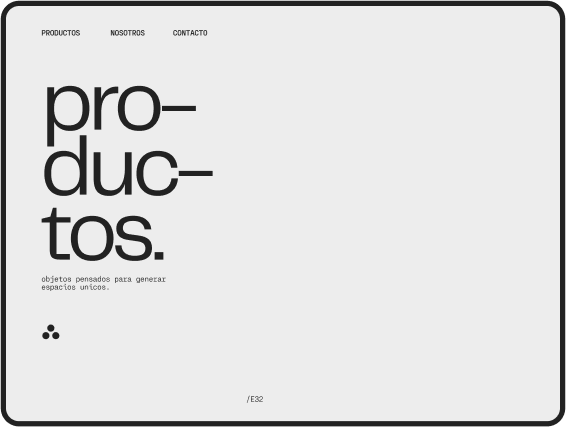
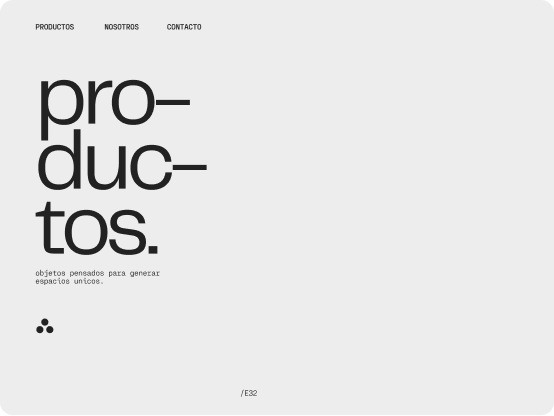
animaipad animation

Changed region(s): [[0.0, 0.0, 1.0, 1.0], [0.0614, 0.1875, 0.3682, 0.6875], [0.0614, 0.75, 0.1227, 0.8125]]

diff --git a/src/components/Animations/Estudio/AnimaIpad2.jsx b/src/components/Animations/Estudio/AnimaIpad2.jsx
@@ -1,4 +1,4 @@
-import { motion } from "framer-motion";
+import { AnimatePresence, motion } from "framer-motion";
 import React, { useEffect, useState } from "react";
 import { useInView } from "react-intersection-observer";
 import Ipad10 from "../../../assets/img/Estudio/Ipad10.png";
@@ -54,34 +54,25 @@ const AnimaIpad2 = () => {
               }}
             />
           ))}
-          {/* <motion.img
-            src={Ipad15}
-            alt="Ipad15"
-            className="Ipad15"
-            initial={{ opacity: 0 }}
-            animate={{ opacity: 1 }}
-            transition={{
-                delay: IpadImg.length * 2,
-            }}
-          /> */}
           <motion.img
             src={Ipad13}
             alt="Ipad13"
             className="Ipad13"
             initial={{
               opacity: 0,
-              width: 0,
+              width: "50%",
             }}
             animate={{
               opacity: 1,
               width: "100%",
-            //   height: "25.6119rem",
             }}
             transition={{
-                delay: (IpadImg.length * 2) + 2,
+              delay: IpadImg.length * 2 + 2,
+              ease: [0.55, 0.59, 0, 1.01],
+              duration: 1.5,
             }}
           />
-           <motion.img
+          <motion.img
             src={Ipad12}
             alt="Ipad12"
             className="Ipad12"
@@ -92,23 +83,34 @@ const AnimaIpad2 = () => {
               opacity: 1,
             }}
             transition={{
-                delay: (IpadImg.length * 2) + 3,
+              delay: IpadImg.length * 2 + 3,
             }}
           />
-          <motion.img
-            src={Ipad13}
-            alt="Ipad13"
-            className="Ipad13"
-            initial={{
-              opacity: 0,
-            }}
-            animate={{
-              opacity: 1,
-            }}
-            transition={{
-                delay: (IpadImg.length * 2) + 4,
-            }}
-          />
+          <AnimatePresence>
+            <motion.img
+              src={Ipad13}
+              alt="Ipad13"
+              className="Ipad13"
+              initial={{
+                opacity: 0,
+                width: "100%",
+              }}
+              animate={{
+                opacity: 1,
+              }}
+              exit={{
+                width: "50%",
+                opacity: 0,
+                transition: {
+                  duration: 0.5,
+                  ease: [0.55, 0.59, 0, 1.01],
+                },
+              }}
+              transition={{
+                delay: IpadImg.length * 2 + 6,
+              }}
+            />
+          </AnimatePresence>
           <motion.img
             src={Ipad15}
             alt="Ipad15"
@@ -120,7 +122,9 @@ const AnimaIpad2 = () => {
               opacity: 1,
             }}
             transition={{
-                delay: (IpadImg.length * 2) + 5,
+              duration: 2,
+              ease: [0.55, 0.59, 0, 1.01],
+              delay: IpadImg.length * 2 + 8,
             }}
           />
         </>

diff --git a/src/components/Animations/Estudio/AnimaIpad1.jsx b/src/components/Animations/Estudio/AnimaIpad1.jsx
@@ -9,10 +9,7 @@ import "../Estudio/Ipad.css";
 
 const AnimaIpad1 = () => {
   const [animationActive, setAnimationActive] = useState(false);
-
-  const [ref, inView] = useInView({
-    threshold: 0.5,
-  });
+  const [ref, inView] = useInView({ threshold: 0.5 });
 
   useEffect(() => {
     if (inView) {
@@ -32,20 +29,22 @@ const AnimaIpad1 = () => {
             alt="Ipad1"
             className="Ipad1"
             initial={{
-              opacity: 0,
+              opacity: 1,
               y: 0,
             }}
             animate={{
-              opacity: 1,
-              y: "-10%",
+              opacity: 0,
+              y: -50,
             }}
             transition={{
-              duration: 3,
-              ease: [0.42, 0, 0.11, 0.99],
-/*               repeat: Infinity,
-              repeatType: "reverse", */
+              opacity: {
+                duration: 2,
+              },
+              y: {
+                duration: 2,
+                ease: [0.42, 0, 0.11, 0.99],
+              },
             }}
-            exit={{ opacity: 0 }}
           />
           <motion.img
             src={Ipad2}
@@ -53,43 +52,50 @@ const AnimaIpad1 = () => {
             className="Ipad2"
             initial={{
               opacity: 0,
+              y: 0,
             }}
             animate={{
               opacity: 1,
+              y: -60.96,
+              transitionEnd: {
+                display: "none",
+              },
             }}
+/*             exit={{
+              opacity: 0,
+              y: -60.96,
+            }} */
             transition={{
-              duration: 2,
-              ease: [0.42, 0, 0.11, 0.99],
-/*               repeat: Infinity,
-              repeatType: "reverse", */
-              delay: 0.6,
+              opacity: {
+                duration: 3,
+                ease: [0.42, 0, 0.11, 0.99],
+              },
+              y: {
+                delay: 3,
+                duration: 3,
+              },
             }}
-            exit={{ opacity: 0 }}
           />
           <motion.img
             src={Ipad3}
             alt="Ipad3"
             className="Ipad3"
             initial={{
-              opacity: 1,
-              y: 0,
+              opacity: 0,
             }}
             animate={{
-              opacity: 0,
-              y: "-10%",
+              opacity: 1,
             }}
             transition={{
               duration: 3,
               ease: [0.42, 0, 0.11, 0.99],
-/*               repeat: Infinity,
-              repeatType: "reverse", */
-              delay: 3,
+              delay: 6,
             }}
-            exit={{ opacity: 0 }}
           />
         </>
       )}
     </div>
   );
 };
+
 export default AnimaIpad1;

diff --git a/src/components/Works/Estudio.jsx b/src/components/Works/Estudio.jsx
@@ -10,8 +10,8 @@ import Estudio4 from "../../assets/img/Estudio/Estudio4.png";
 import carro from "../../assets/img/Estudio/carro.gif";
 import "../../styles/Estudio.css";
 import "../../styles/Work.css";
-// import AnimaIpad1 from "../Animations/Estudio/AnimaIpad1";
-import AnimaIpad2 from "../Animations/Estudio/AnimaIpad2";
+import AnimaIpad1 from "../Animations/Estudio/AnimaIpad1";
+// import AnimaIpad2 from "../Animations/Estudio/AnimaIpad2";
 import BeLink from "../Buttons/BeLink";
 import Next from "../Buttons/Next";
 import Prev from "../Buttons/Prev";
@@ -108,8 +108,8 @@ const Estudio = () => {
           <EstudioCelAnimation />
         </div>
         <div className="Ipad-container">
-          {/* <AnimaIpad1 /> */}
-          <AnimaIpad2 />
+          <AnimaIpad1 />
+          {/* <AnimaIpad2 /> */}
         </div>
       </div>
       <img

diff --git a/src/styles/Estudio.css b/src/styles/Estudio.css
@@ -43,12 +43,14 @@
   height: 25.9375rem;
   width: 34.625rem;
   border: solid 0.3256rem #222222;
-  border-radius: 0.815rem;
+  border-radius: 1.3rem;
   align-self: center;
   justify-self: end;
   margin-right: -5.2rem;
   margin-bottom: 6rem;
-  z-index: 3;
+  z-index: 4;
+  position: relative;
+  background-color: #EDEDED;
 }
 .Estudiopad1 {
   width: 100%;

diff --git a/src/components/Animations/Estudio/Ipad.css b/src/components/Animations/Estudio/Ipad.css
@@ -14,6 +14,8 @@
 .Ipad8,
 .Ipad9,
 .Ipad10,
+.Ipad12,
+.Ipad13,
 .Ipad15 {
   position: absolute;
   width: 100%;
@@ -22,12 +24,7 @@
   right: 0;
   z-index: 4;
 }
-.Ipad12,
-.Ipad13 {
-  position: absolute;
-  width: calc(34.625rem - 0.3256rem);
-  height: calc(25.9375rem - 0.3256rem);
-  top: 0;
-  right: 0;
-  z-index: 4;
+
+.hidden {
+  display: none;
 }
